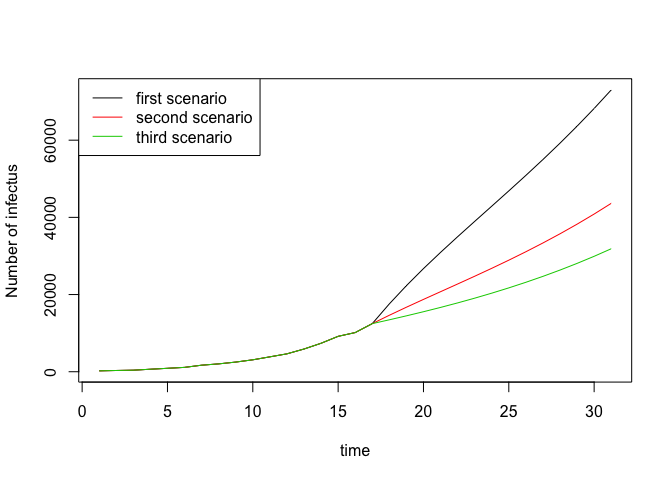
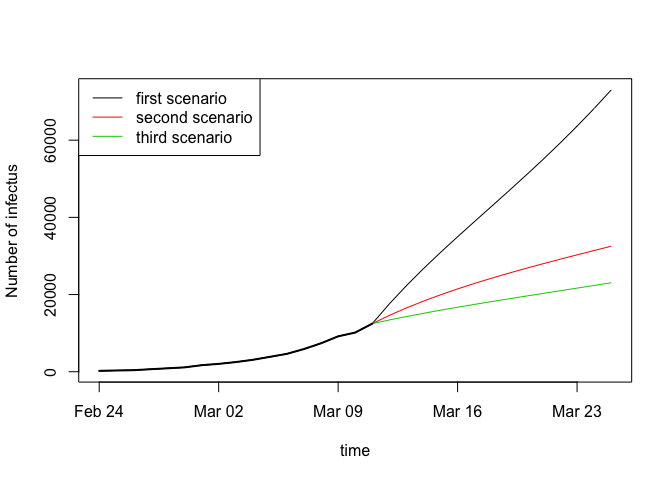
Add home page, navigation and theme

diff --git a/draft_analysis_Italy.md b/draft_analysis_Italy.md
@@ -11,85 +11,66 @@ the prediction of this epidemic in Italy. We estimated the R0 parameter
 by means of a simple linear regression ad in
 <https://kingaa.github.io/clim-dis/parest/parest.html>
 
+``` r
+plot(dat_csv$data,dat_csv$totale_casi,ylab="Total Covid cases",xlab="Date")
+```
+
+![](draft_analysis_Italy_files/figure-gfm/plot%20data-1.png)<!-- -->
+
+``` r
+mean(diff(log(dat_csv$totale_casi)))
+```
+
+    ## [1] 0.2497948
+
+The grow is exponential (rate of increase of about 25%). We estimate the
+R0 parameter by means of a linear model. R0 indicates how contagious an
+infectious disease is. It’s also referred to as the reproduction
+    number.
+
+  - <img src="https://latex.codecogs.com/gif.latex?log(Y_t) = a + b*t + e_t" />
+
+where \(`Y_t`\) is the cumulative number of infected at the time t,
+while b is beta, the slope of the regression line.
+
+The slope b indicate the rate of exponetial increase, used for the R0
+calculation.  
+R code:  
 fit1 \<-
     lm(log(totale\_casi)~t,data=dat\_csv)
 
 ``` r
-show(dat_csv)
+head(dat_csv)
 ```
 
-    ##                   data stato ricoverati_con_sintomi terapia_intensiva
-    ## 1  2020-02-24 18:00:00   ITA                    101                26
-    ## 2  2020-02-25 18:00:00   ITA                    114                35
-    ## 3  2020-02-26 18:00:00   ITA                    128                36
-    ## 4  2020-02-27 18:00:00   ITA                    248                56
-    ## 5  2020-02-28 18:00:00   ITA                    345                64
-    ## 6  2020-02-29 18:00:00   ITA                    401               105
-    ## 7  2020-03-01 18:00:00   ITA                    639               140
-    ## 8  2020-03-02 18:00:00   ITA                    742               166
-    ## 9  2020-03-03 18:00:00   ITA                   1034               229
-    ## 10 2020-03-04 18:00:00   ITA                   1346               295
-    ## 11 2020-03-05 18:00:00   ITA                   1790               351
-    ## 12 2020-03-06 18:00:00   ITA                   2394               462
-    ## 13 2020-03-07 18:00:00   ITA                   2651               567
-    ## 14 2020-03-08 18:00:00   ITA                   3557               650
-    ## 15 2020-03-09 18:00:00   ITA                   4316               733
-    ## 16 2020-03-10 18:00:00   ITA                   5038               877
-    ## 17 2020-03-11 17:00:00   ITA                   5838              1028
-    ##    totale_ospedalizzati isolamento_domiciliare totale_attualmente_positivi
-    ## 1                   127                     94                         221
-    ## 2                   150                    162                         311
-    ## 3                   164                    221                         385
-    ## 4                   304                    284                         588
-    ## 5                   409                    412                         821
-    ## 6                   506                    543                        1049
-    ## 7                   779                    798                        1577
-    ## 8                   908                    927                        1835
-    ## 9                  1263                   1000                        2263
-    ## 10                 1641                   1065                        2706
-    ## 11                 2141                   1155                        3296
-    ## 12                 2856                   1060                        3916
-    ## 13                 3218                   1843                        5061
-    ## 14                 4207                   2180                        6387
-    ## 15                 5049                   2936                        7985
-    ## 16                 5915                   2599                        8514
-    ## 17                 6866                   3724                       10590
-    ##    nuovi_attualmente_positivi dimessi_guariti deceduti totale_casi tamponi
-    ## 1                         221               1        7         229    4324
-    ## 2                          90               1       10         322    8623
-    ## 3                          74               3       12         400    9587
-    ## 4                         203              45       17         650   12014
-    ## 5                         233              46       21         888   15695
-    ## 6                         228              50       29        1128   18661
-    ## 7                         528              83       34        1694   21127
-    ## 8                         258             149       52        2036   23345
-    ## 9                         428             160       79        2502   25856
-    ## 10                        443             276      107        3089   29837
-    ## 11                        590             414      148        3858   32362
-    ## 12                        620             523      197        4636   36359
-    ## 13                       1145             589      233        5883   42062
-    ## 14                       1326             622      366        7375   49937
-    ## 15                       1598             724      463        9172   53826
-    ## 16                        529            1004      631       10149   60761
-    ## 17                       2076            1045      827       12462   73154
-    ##     t
-    ## 1   1
-    ## 2   2
-    ## 3   3
-    ## 4   4
-    ## 5   5
-    ## 6   6
-    ## 7   7
-    ## 8   8
-    ## 9   9
-    ## 10 10
-    ## 11 11
-    ## 12 12
-    ## 13 13
-    ## 14 14
-    ## 15 15
-    ## 16 16
-    ## 17 17
+    ##                  data stato ricoverati_con_sintomi terapia_intensiva
+    ## 1 2020-02-24 18:00:00   ITA                    101                26
+    ## 2 2020-02-25 18:00:00   ITA                    114                35
+    ## 3 2020-02-26 18:00:00   ITA                    128                36
+    ## 4 2020-02-27 18:00:00   ITA                    248                56
+    ## 5 2020-02-28 18:00:00   ITA                    345                64
+    ## 6 2020-02-29 18:00:00   ITA                    401               105
+    ##   totale_ospedalizzati isolamento_domiciliare totale_attualmente_positivi
+    ## 1                  127                     94                         221
+    ## 2                  150                    162                         311
+    ## 3                  164                    221                         385
+    ## 4                  304                    284                         588
+    ## 5                  409                    412                         821
+    ## 6                  506                    543                        1049
+    ##   nuovi_attualmente_positivi dimessi_guariti deceduti totale_casi tamponi
+    ## 1                        221               1        7         229    4324
+    ## 2                         90               1       10         322    8623
+    ## 3                         74               3       12         400    9587
+    ## 4                        203              45       17         650   12014
+    ## 5                        233              46       21         888   15695
+    ## 6                        228              50       29        1128   18661
+    ##   t
+    ## 1 1
+    ## 2 2
+    ## 3 3
+    ## 4 4
+    ## 5 5
+    ## 6 6
 
 ``` r
 fit1 <- lm(log(totale_casi)~t,data=dat_csv)
@@ -115,9 +96,8 @@ summary(fit1)
     ## Multiple R-squared:  0.9847, Adjusted R-squared:  0.9837 
     ## F-statistic:   966 on 1 and 15 DF,  p-value: 4.93e-15
 
-Estimates
-
-You can also embed plots, for example:
+The prediction is good (\(R^2\) near 1). However the tendency is for a
+reduction of the slope.
 
 ``` r
 plot(dat_csv$t,log(dat_csv$totale_casi),ylab="log cases",xlab="time")
@@ -126,7 +106,18 @@ abline(coef(summary(fit1))[,1])
 
 ![](draft_analysis_Italy_files/figure-gfm/model%20plot-1.png)<!-- -->
 The slope coefficient estimated in the linear regression model can be
-used to estimate R0, the number of
+used to estimate R0.
+
+R0=1+b\*incubation period.
+
+The incubation period for the coronavirus is in mean 5.1 days with a
+range from 2-14 days. Please se
+<https://www.worldometers.info/coronavirus/coronavirus-incubation-period/>.
+In the calculation we considered an incubation period of 14 days for two
+reasons: 1) the majority are asymptomatic, contagiousness is greater
+than 5, maybe 14. A minority (who made the swab) will have a duration of
+about 5 days between the start of contagiousness and swab; 2) 14 days is
+the worst scenario to begin.
 
 ``` r
 slope <-coef(summary(fit1))[2,1]; slope
@@ -141,7 +132,7 @@ slope.se <- coef(summary(fit1))[2,2]; slope.se
     ## [1] 0.007959644
 
 ``` r
-### R0 estimates and 95%IC 
+### R0 estimates and 95% IC 
 R_0=slope*14+1;R_0
 ```
 
@@ -153,8 +144,22 @@ R_0=slope*14+1;R_0
 
     ## [1] 4.244990 4.681815
 
-We want to make a short term forecast (14 days) with 3 scenario. We fix
-a series of initial parameters.
+We want to make a short term forecast (14 days) with 3 scenario:  
+\-Scenario 1: 10 exposed people for each COVID-19 case and beta the same
+(no restrictions made or even no effects) -Scenario 2: 5 exposed people
+for each COVID-19 case and beta reduced of 50% (-50% both exposed people
+and -50% COVID19 contagious power) -Scenario 3: 3 exposed people for
+each COVID-19 case and beta reduced of 50% (-70% both exposed people and
+-50% COVID19 contagious power)
+
+We fix a series of initial parameters: -I0: initial number of COVID-19
+cases  
+\- R0: initial number of recovered  
+\- beta: the quantity connected to R0  
+\- N: Italian population  
+\- duration: infection duration of COVID-19  
+\- sigma0: the coronavirus transmission rate (half of flu epidemic)  
+\- mu0: the overall mortality rate
 
 ``` r
 # initial number of infectus
@@ -196,27 +201,29 @@ library(EpiDynamics)
     ##   print.quosures rlang
 
 ``` r
-parameters <- c(mu = mu0, beta = beta0, sigma = sigma0, gamma = 1/duration)
 # average number of single connections of an infected person
 # less contacts, less probability of new infections
 # we keep constant the other parameters
+forecast<-14
+parameters <- c(mu = mu0, beta = beta0, sigma = sigma0, gamma = 1/duration)
 f1<-10
 initials <- c(S = 0.95, E = (f1*I0/N), I = I0/N, R = R0/N)
-seir1 <- SEIR(pars = parameters, init = initials, time = 0:14)
-
+seir1 <- SEIR(pars = parameters, init = initials, time = 0:forecast)
+parameters <- c(mu = mu0, beta = beta0*1/2, sigma = sigma0, gamma = 1/duration)
 f2<-5
 initials <- c(S = 0.95, E = (f2*I0/N), I = I0/N, R = R0/N)
-seir2 <- SEIR(pars = parameters, init = initials, time = 0:14)
-
+seir2 <- SEIR(pars = parameters, init = initials, time = 0:forecast)
+parameters <- c(mu = mu0, beta = beta0*1/2, sigma = sigma0, gamma = 1/duration)
 f3<-3
 initials <- c(S = 0.95, E = (f3*I0/N), I = I0/N, R = R0/N)
-seir3 <- SEIR(pars = parameters, init = initials, time = 0:14)
+seir3 <- SEIR(pars = parameters, init = initials, time = 0:forecast)
 
 
-
-plot(c(dat_csv$totale_casi,seir1$results$I[-1]*N),type="l",ylab="Number of infectus",xlab="time")
-lines(c(dat_csv$totale_casi,seir2$results$I[-1]*N),col=2)
-lines(c(dat_csv$totale_casi,seir3$results$I[-1]*N),col=3)
+date<-seq(as.Date("2020-02-24"),as.Date("2020-02-24")+forecast-1+dim(dat_csv)[1],1)
+plot(date,c(dat_csv$totale_casi,seir1$results$I[-1]*N),type="l",ylab="Number of infectus",xlab="time")
+lines(date,c(dat_csv$totale_casi,seir2$results$I[-1]*N),col=2)
+lines(date,c(dat_csv$totale_casi,seir3$results$I[-1]*N),col=3)
+lines(date[1:dim(dat_csv)[1]],dat_csv$totale_casi,lwd=2)
 legend("topleft",c("first scenario","second scenario","third scenario"),lty=1,col=1:3)
 ```
 

diff --git a/draft_analysis_Veneto.md b/draft_analysis_Veneto.md
@@ -7,7 +7,7 @@ fit1 \<-
     lm(log(totale\_casi)~t,data=dat\_csv)
 
 ``` r
-show(dat_csv)
+head(dat_csv)
 ```
 
     ##                    data stato codice_regione denominazione_regione     lat
@@ -17,17 +17,6 @@ show(dat_csv)
     ## 84  2020-02-27 18:00:00   ITA              5                Veneto 45.4349
     ## 105 2020-02-28 18:00:00   ITA              5                Veneto 45.4349
     ## 126 2020-02-29 17:00:00   ITA              5                Veneto 45.4349
-    ## 147 2020-03-01 17:00:00   ITA              5                Veneto 45.4349
-    ## 168 2020-03-02 18:00:00   ITA              5                Veneto 45.4349
-    ## 189 2020-03-03 18:00:00   ITA              5                Veneto 45.4349
-    ## 210 2020-03-04 17:00:00   ITA              5                Veneto 45.4349
-    ## 231 2020-03-05 17:00:00   ITA              5                Veneto 45.4349
-    ## 252 2020-03-06 17:00:00   ITA              5                Veneto 45.4349
-    ## 273 2020-03-07 18:00:00   ITA              5                Veneto 45.4349
-    ## 294 2020-03-08 18:00:00   ITA              5                Veneto 45.4349
-    ## 315 2020-03-09 18:00:00   ITA              5                Veneto 45.4349
-    ## 336 2020-03-10 18:00:00   ITA              5                Veneto 45.4349
-    ## 357 2020-03-11 17:00:00   ITA              5                Veneto 45.4349
     ##         long ricoverati_con_sintomi terapia_intensiva totale_ospedalizzati
     ## 21  12.33845                     12                 4                   16
     ## 42  12.33845                     12                 7                   19
@@ -35,17 +24,6 @@ show(dat_csv)
     ## 84  12.33845                     19                 8                   27
     ## 105 12.33845                     24                 9                   33
     ## 126 12.33845                     24                11                   35
-    ## 147 12.33845                     51                13                   64
-    ## 168 12.33845                     53                14                   67
-    ## 189 12.33845                     49                19                   68
-    ## 210 12.33845                     76                23                   99
-    ## 231 12.33845                     92                24                  116
-    ## 252 12.33845                    117                27                  144
-    ## 273 12.33845                    123                41                  164
-    ## 294 12.33845                    146                47                  193
-    ## 315 12.33845                    186                51                  237
-    ## 336 12.33845                    204                67                  271
-    ## 357 12.33845                    262                68                  330
     ##     isolamento_domiciliare totale_attualmente_positivi
     ## 21                      16                          32
     ## 42                      23                          42
@@ -53,17 +31,6 @@ show(dat_csv)
     ## 84                      82                         109
     ## 105                    116                         149
     ## 126                    154                         189
-    ## 147                    197                         261
-    ## 168                    204                         271
-    ## 189                    229                         297
-    ## 210                    246                         345
-    ## 231                    264                         380
-    ## 252                    310                         454
-    ## 273                    341                         505
-    ## 294                    430                         623
-    ## 315                    457                         694
-    ## 336                    512                         783
-    ## 357                    610                         940
     ##     nuovi_attualmente_positivi dimessi_guariti deceduti totale_casi
     ## 21                          32               0        1          33
     ## 42                          10               0        1          43
@@ -71,35 +38,13 @@ show(dat_csv)
     ## 84                          40               0        2         111
     ## 105                         40               0        2         151
     ## 126                         40               0        2         191
-    ## 147                         72               0        2         263
-    ## 168                         10               0        2         273
-    ## 189                         26               7        3         307
-    ## 210                         48               9        6         360
-    ## 231                         35              17       10         407
-    ## 252                         74              22       12         488
-    ## 273                         51              25       13         543
-    ## 294                        118              29       18         670
-    ## 315                         71              30       20         744
-    ## 336                         89              47       26         856
-    ## 357                        157              54       29        1023
-    ##     tamponi  t
-    ## 21     2200  1
-    ## 42     3780  2
-    ## 63     4900  3
-    ## 84     6164  4
-    ## 105    7414  5
-    ## 126    8659  6
-    ## 147    9056  7
-    ## 168    9782  8
-    ## 189   10176  9
-    ## 210   10515 10
-    ## 231   11949 11
-    ## 252   13023 12
-    ## 273   14429 13
-    ## 294   15918 14
-    ## 315   15956 15
-    ## 336   16643 16
-    ## 357   21400 17
+    ##     tamponi t
+    ## 21     2200 1
+    ## 42     3780 2
+    ## 63     4900 3
+    ## 84     6164 4
+    ## 105    7414 5
+    ## 126    8659 6
 
 ``` r
 fit1 <- lm(log(totale_casi)~t,data=dat_csv)
@@ -217,7 +162,7 @@ f2<-5
 initials <- c(S = 0.95, E = (f2*I0/N), I = I0/N, R = R0/N)
 seir2 <- SEIR(pars = parameters, init = initials, time = 0:14)
 
-f3<-3
+f3<-2
 initials <- c(S = 0.95, E = (f3*I0/N), I = I0/N, R = R0/N)
 seir3 <- SEIR(pars = parameters, init = initials, time = 0:14)
 
@@ -226,7 +171,7 @@ seir3 <- SEIR(pars = parameters, init = initials, time = 0:14)
 plot(c(dat_csv$totale_casi,seir1$results$I[-1]*N),type="l",ylab="Number of infectus",xlab="time")
 lines(c(dat_csv$totale_casi,seir2$results$I[-1]*N),col=2)
 lines(c(dat_csv$totale_casi,seir3$results$I[-1]*N),col=3)
-legend("topleft",c("first scenario","second scenario","third scenario"),lty=1,col=1:3)
+legend("topleft",c("1° scenario 10exp for case","2° scenario 5exp fo case","3° scenario 2exp for case"),lty=1,col=1:3)
 ```
 
 ![](draft_analysis_Veneto_files/figure-gfm/first%20scenario%20plot-1.png)<!-- -->
